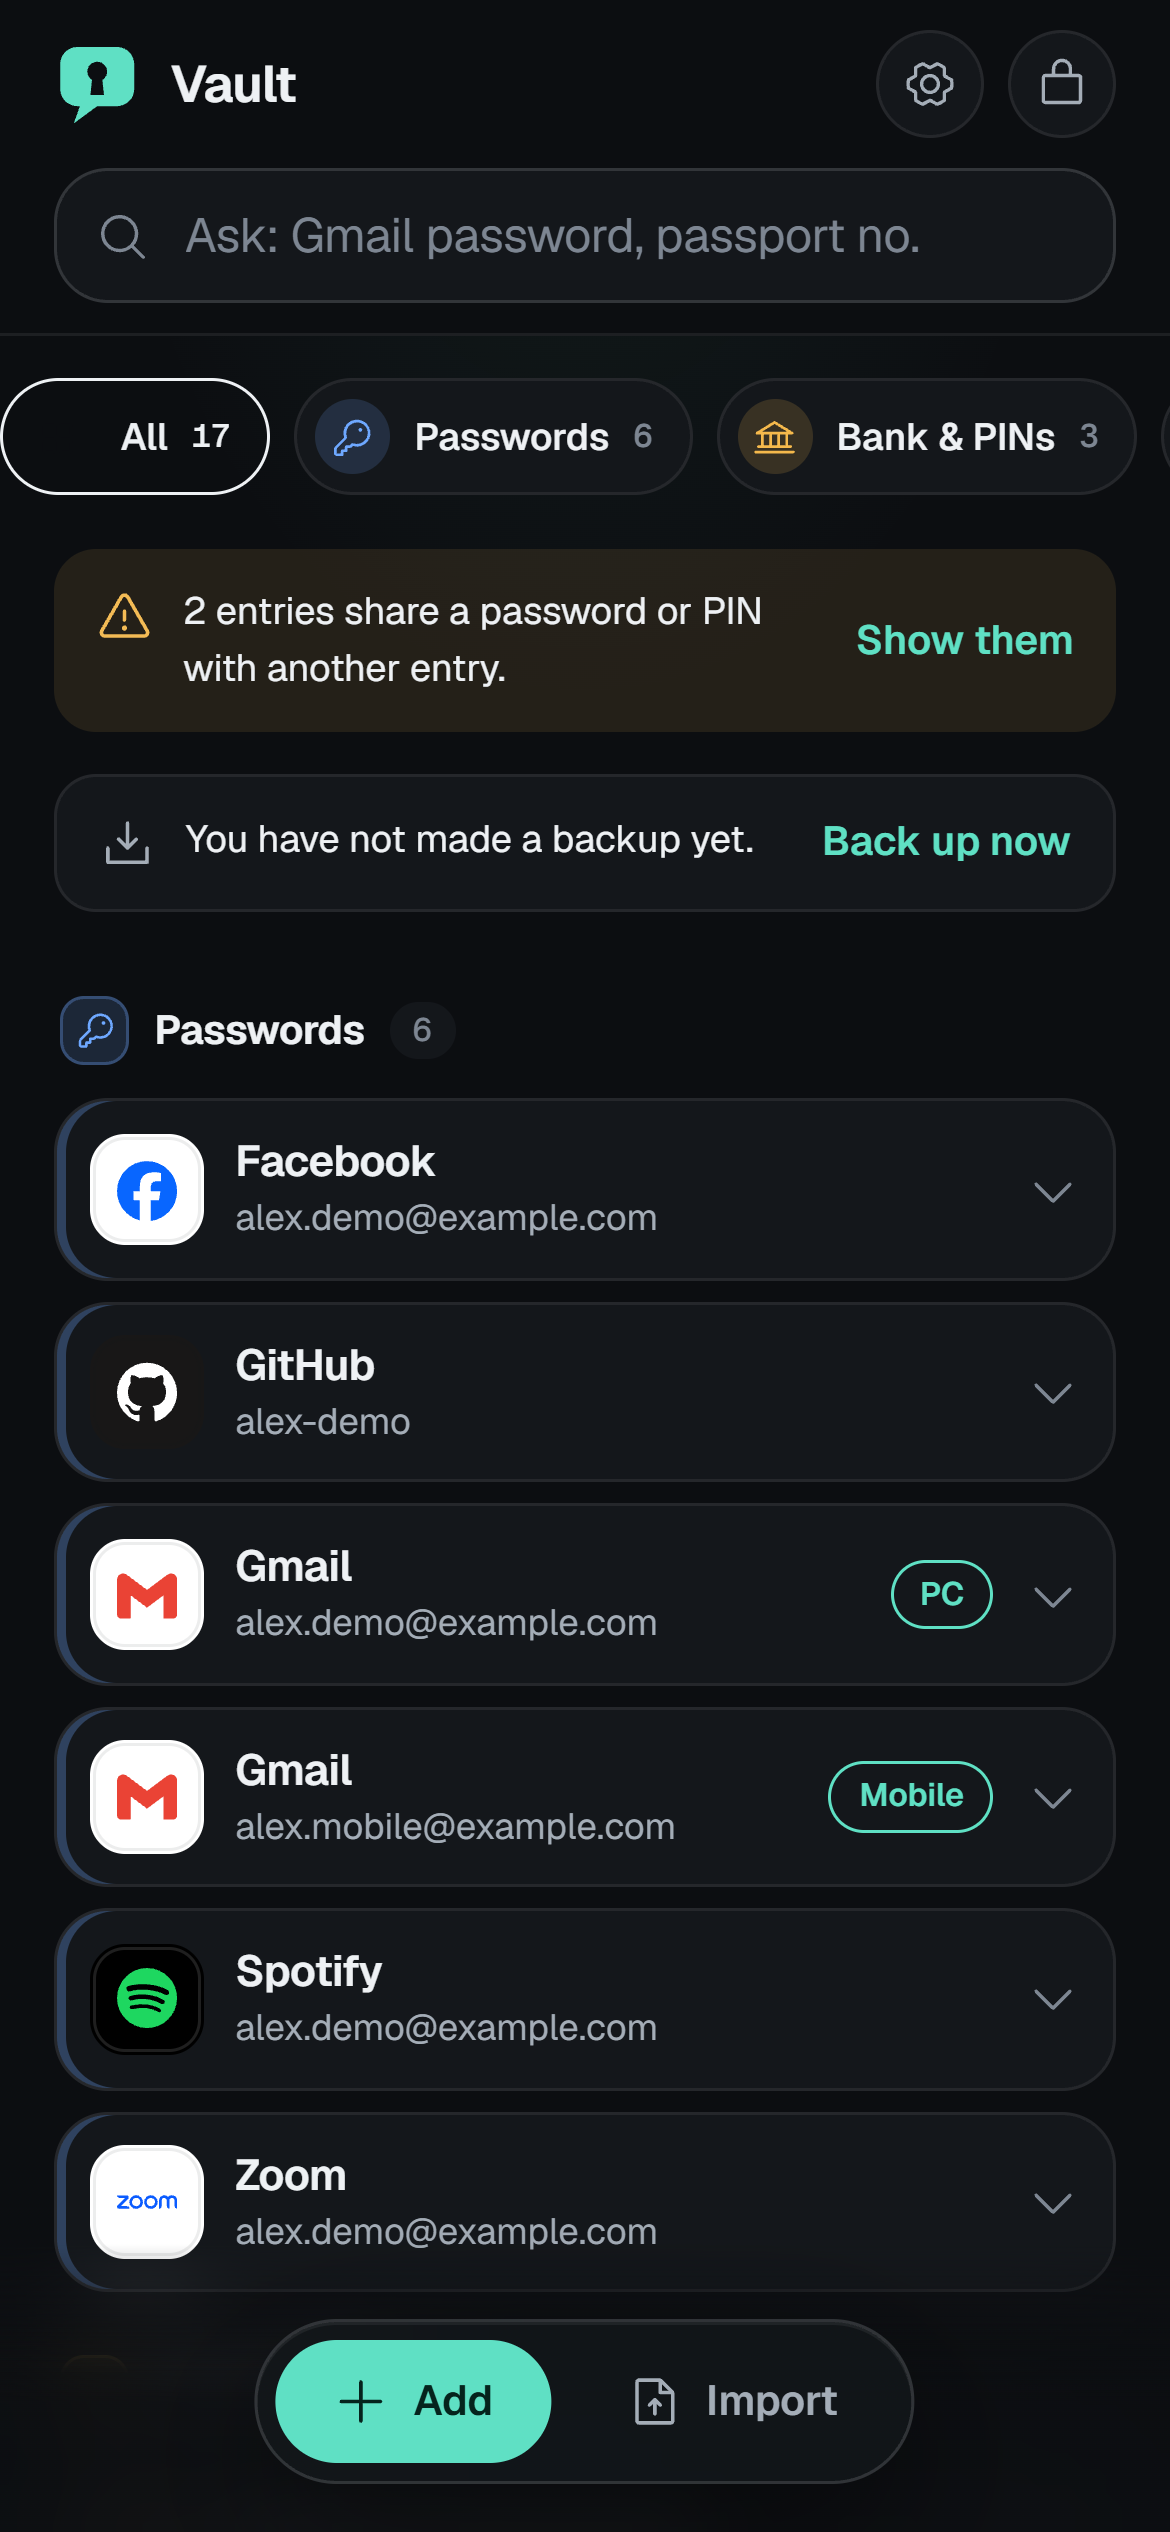
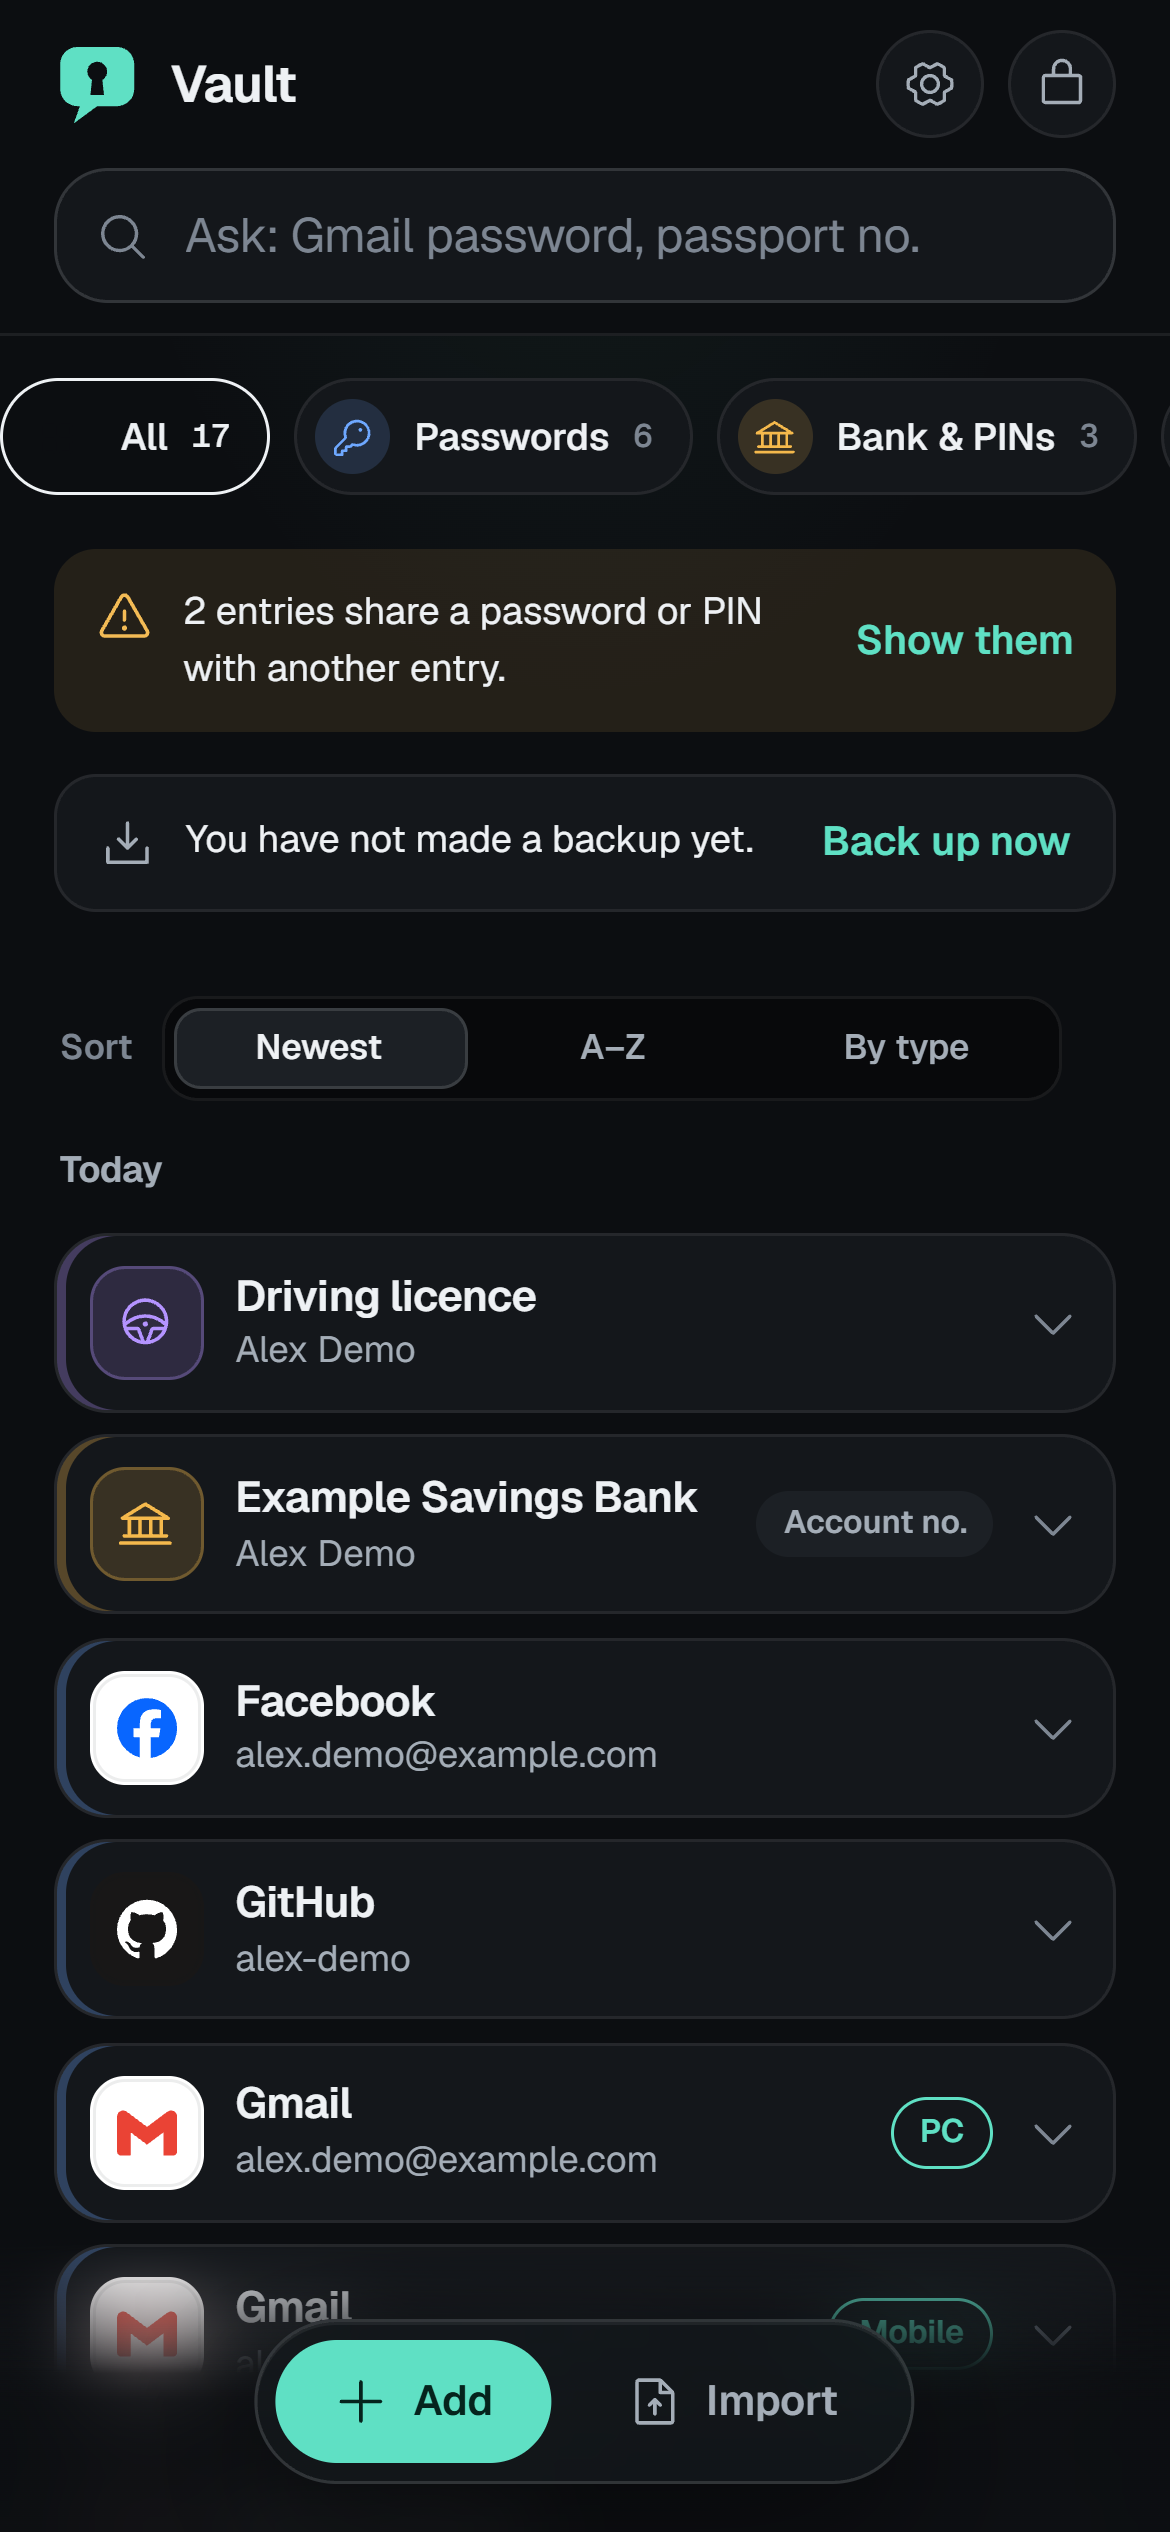
Newest-first list with a Newest / A-Z / By type switch
The vault list now opens with the most recently saved or changed entry on top,
under Today / Yesterday / This week / This month / month headings. A small Sort
switch offers A-Z and the previous By type grouping; the choice is remembered on
the device. Sorting logic lives in src/sort.ts with tests; screenshots refreshed.

diff --git a/src/main.ts b/src/main.ts
@@ -8,6 +8,7 @@ import { appLogo, icon, brandFor, logoSvg, type IconName } from './icons';
 import type { Draft } from './parse';
 import { interpret, parseQuery, search } from './search';
 import { passphraseProblem, strength } from './strength';
+import { sortEntries, timeGroup, type SortMode } from './sort';
 import { CATEGORIES, cat, entryIconName, inferCategory, typeFor, type Category } from './categories';
 import {
   createFacePasskey, disableFaceId, faceIdAvailable, faceIdEnabled, faceIdState, finishFaceId, notePassphraseUnlock, passphraseFromFaceId,
@@ -217,6 +218,16 @@ function setTextSize(t: TextSize, store = true): void {
   if (store) try { localStorage.setItem(TEXT_KEY, t); } catch { /* storage blocked */ }
 }
 setTextSize(textSize(), false);
+
+// List order: newest first unless changed (remembered on this device; not a secret).
+const SORT_KEY = 'memo-vault:sort';
+function sortMode(): SortMode {
+  try { const m = localStorage.getItem(SORT_KEY); if (m === 'newest' || m === 'az' || m === 'type') return m; } catch { /* storage blocked */ }
+  return 'newest';
+}
+function setSortMode(m: SortMode): void {
+  try { localStorage.setItem(SORT_KEY, m); } catch { /* storage blocked */ }
+}
 
 // Light / dark theme. Follows the iPhone setting until the sun/moon switch in Settings is used.
 type Theme = 'light' | 'dark';
@@ -650,14 +661,28 @@ function updateResults(): void {
       }
     }
   } else {
-    const byName = (a: Entry, b: Entry) => a.service.localeCompare(b.service) || a.account.localeCompare(b.account);
     let i = 0;
-    // Grouped by category, in a fixed order, each with its icon and count.
-    for (const c of CATEGORIES) {
-      const list = pool.filter((e) => e.category === c.id).sort(byName);
-      if (!list.length) continue;
-      out.push(h('h2', { class: 'section-title group-head', 'data-cat': c.id }, h('span', { class: 'section-ic' }, icon(c.icon)), c.plural, h('span', { class: 'count' }, String(list.length))));
-      list.forEach((e) => out.push(entryRow(e, i++)));
+    out.push(h('div', { class: 'sort-bar' }, h('span', { class: 'sort-label' }, 'Sort'),
+      segmented<SortMode>([['newest', 'Newest'], ['az', 'A–Z'], ['type', 'By type']], sortMode(), (m) => { setSortMode(m); updateResults(); }, 'Sort the list')));
+    const mode = sortMode();
+    if (mode === 'type') {
+      // Grouped by category, in a fixed order, each with its icon and count.
+      for (const c of CATEGORIES) {
+        const list = sortEntries(pool.filter((e) => e.category === c.id), 'az');
+        if (!list.length) continue;
+        out.push(h('h2', { class: 'section-title group-head', 'data-cat': c.id }, h('span', { class: 'section-ic' }, icon(c.icon)), c.plural, h('span', { class: 'count' }, String(list.length))));
+        list.forEach((e) => out.push(entryRow(e, i++)));
+      }
+    } else if (mode === 'az') {
+      sortEntries(pool, 'az').forEach((e) => out.push(entryRow(e, i++)));
+    } else {
+      // Newest first, under Today / Yesterday / This week / ... headings.
+      let heading = '';
+      for (const e of sortEntries(pool, 'newest')) {
+        const g = timeGroup(e.updatedAt);
+        if (g !== heading) { heading = g; out.push(h('h2', { class: 'section-title time-head' }, g)); }
+        out.push(entryRow(e, i++));
+      }
     }
   }
   resultsEl.replaceChildren(...out);

diff --git a/tests/sort.test.ts b/tests/sort.test.ts
@@ -1,0 +1,27 @@
+// The list shows the newest entries first. Runs with: npm test
+import { test } from 'node:test';
+import assert from 'node:assert/strict';
+import { sortEntries, timeGroup } from '../src/sort';
+import type { Entry } from '../src/vault';
+
+const e = (service: string, updatedAt: number): Entry =>
+  ({ id: service, category: 'login', service, account: '', type: 'password', secret: 'x', notes: '', tags: [], history: [], createdAt: updatedAt, updatedAt });
+
+test('newest first: the most recently saved or changed entry is on top', () => {
+  const list = [e('Old', 1000), e('Newest', 3000), e('Middle', 2000)];
+  assert.deepEqual(sortEntries(list, 'newest').map((x) => x.service), ['Newest', 'Middle', 'Old']);
+});
+
+test('same time falls back to A-Z; A-Z mode ignores time', () => {
+  assert.deepEqual(sortEntries([e('Zoom', 5), e('Apple', 5)], 'newest').map((x) => x.service), ['Apple', 'Zoom']);
+  assert.deepEqual(sortEntries([e('Zoom', 9), e('Apple', 1)], 'az').map((x) => x.service), ['Apple', 'Zoom']);
+});
+
+test('time headings', () => {
+  const now = new Date(2026, 10, 26, 15, 0).getTime();
+  assert.equal(timeGroup(new Date(2026, 10, 26, 9, 0).getTime(), now), 'Today');
+  assert.equal(timeGroup(new Date(2026, 10, 25, 23, 0).getTime(), now), 'Yesterday');
+  assert.equal(timeGroup(new Date(2026, 10, 22).getTime(), now), 'This week');
+  assert.equal(timeGroup(new Date(2026, 10, 3).getTime(), now), 'Earlier this month');
+  assert.equal(timeGroup(new Date(2026, 8, 3).getTime(), now), 'September 2026');
+});

diff --git a/src/sort.ts b/src/sort.ts
@@ -1,0 +1,22 @@
+// How the vault list is ordered. Pure functions (no DOM) so they can be tested.
+import type { Entry } from './vault';
+
+export type SortMode = 'newest' | 'az' | 'type';
+
+/** Newest first = the entry saved or changed most recently is at the top. */
+export function sortEntries(list: Entry[], mode: Exclude<SortMode, 'type'>): Entry[] {
+  const byName = (a: Entry, b: Entry) => a.service.localeCompare(b.service) || a.account.localeCompare(b.account);
+  return [...list].sort(mode === 'newest' ? (a, b) => b.updatedAt - a.updatedAt || byName(a, b) : byName);
+}
+
+/** Heading for the "Newest" list: Today, Yesterday, This week, This month, or the month and year. */
+export function timeGroup(ts: number, now = Date.now()): string {
+  const day = (t: number) => { const d = new Date(t); return new Date(d.getFullYear(), d.getMonth(), d.getDate()).getTime(); };
+  const days = Math.round((day(now) - day(ts)) / 86_400_000);
+  if (days <= 0) return 'Today';
+  if (days === 1) return 'Yesterday';
+  if (days < 7) return 'This week';
+  const a = new Date(ts), b = new Date(now);
+  if (a.getFullYear() === b.getFullYear() && a.getMonth() === b.getMonth()) return 'Earlier this month';
+  return a.toLocaleDateString('en', { month: 'long', year: 'numeric' });
+}

diff --git a/src/style.css b/src/style.css
@@ -871,3 +871,11 @@ body::after {
 /* ------------------------------------------------------------ theme switch (Settings) */
 .theme-btn .ic { transition: transform 0.4s var(--ease-out); }
 .theme-btn:active .ic { transform: rotate(-30deg) scale(0.9); }
+
+/* ------------------------------------------------------------ list order (Newest / A–Z / By type) */
+.sort-bar { display: flex; align-items: center; gap: 10px; margin: 2px 2px 4px; }
+.sort-label { font-size: calc(13px * var(--fs)); font-weight: 600; color: var(--text-3); flex: none; }
+.sort-bar .segmented { flex: 1; max-width: 300px; padding: 2px; }
+.sort-bar .seg { min-height: calc(32px * var(--fs)); font-size: calc(13px * var(--fs)); padding: 0 6px; }
+.section-title.time-head { margin-top: 12px; font-size: calc(13.5px * var(--fs)); color: var(--text-2); font-weight: 650; }
+.results > .sort-bar + .time-head { margin-top: 4px; }

diff --git a/README.md b/README.md
@@ -25,6 +25,7 @@ hosting only serves the app's code.
 
 - **Ask in plain words**: "gmail password", "4 digit pin of my bank", "passport number". On-device search understands synonyms, typos and PIN or password hints, and shows every match when a service has several logins (tags such as *PC* and *Mobile*).
 - **Categories with colours and logos**: passwords, bank & PINs, cards, ID documents, phone numbers, addresses, Wi-Fi and notes. Official brand logos come from [Simple Icons](https://simpleicons.org), bundled into the app.
+- **Newest first**: the list opens with what you saved or changed most recently on top, under Today / Yesterday / This week headings. Switch to A–Z or By type any time.
 - **Password history**: changing a value keeps the old one with its date.
 - **Reuse warning**: flags entries that share a password or PIN and links you to a strong generator.
 - **Encrypted backup and restore**: export a file to iCloud Drive or Files; merge it or replace on another phone.
